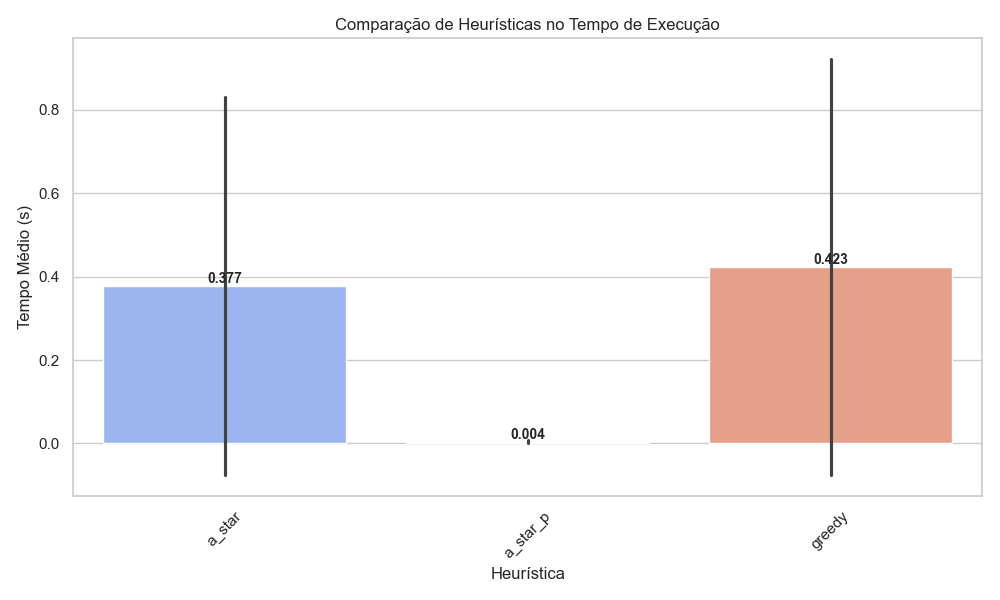
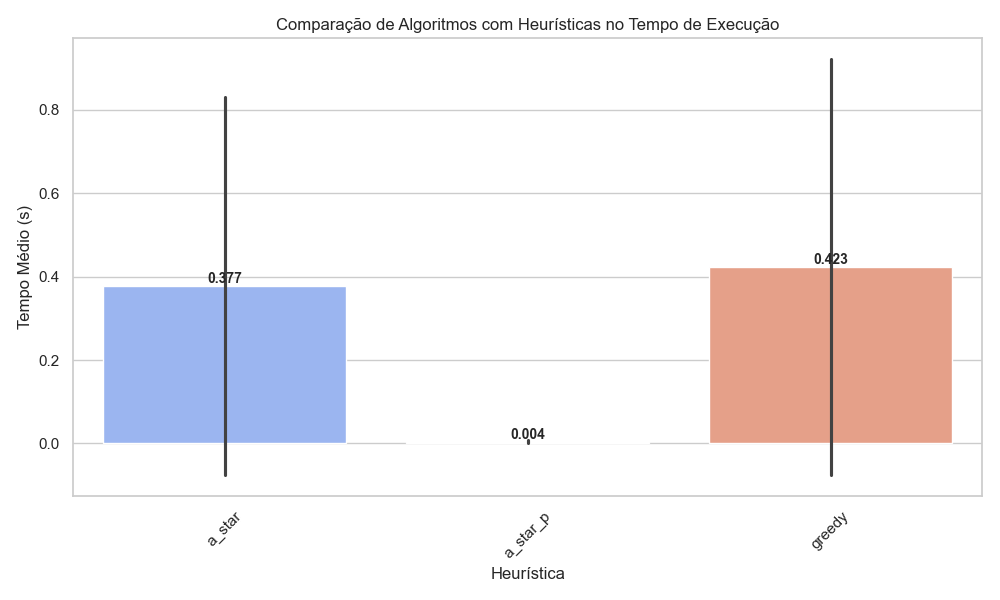
:books: feat: grafico de comparacao de heuristicas

Changed region(s): [[0.279, 0.03, 0.775, 0.06]]

diff --git a/docs/main.py b/docs/main.py
@@ -93,7 +93,6 @@ plt.savefig(os.path.join(output_dir, "heatmap_correlacao.png"))
 plt.close()
 
 # Criar gráfico comparando heurísticas no tempo de execução
-
 plt.figure(figsize=(10, 6))
 bar = sns.barplot(
     data=df[df["algoritmo"].isin(["a_star", "greedy", "a_star_p"])],  # Filtra heurísticas específicas
@@ -110,7 +109,7 @@ for p in bar.patches:
                   (p.get_x() + p.get_width() / 2, p.get_height()),
                   ha='center', va='bottom', fontsize=10, fontweight='bold')
 
-bar.set_title("Comparação de Heurísticas no Tempo de Execução")
+bar.set_title("Comparação de Algoritmos com Heurísticas no Tempo de Execução")
 bar.set_xlabel("Heurística")
 bar.set_ylabel("Tempo Médio (s)")
 plt.xticks(rotation=45)
